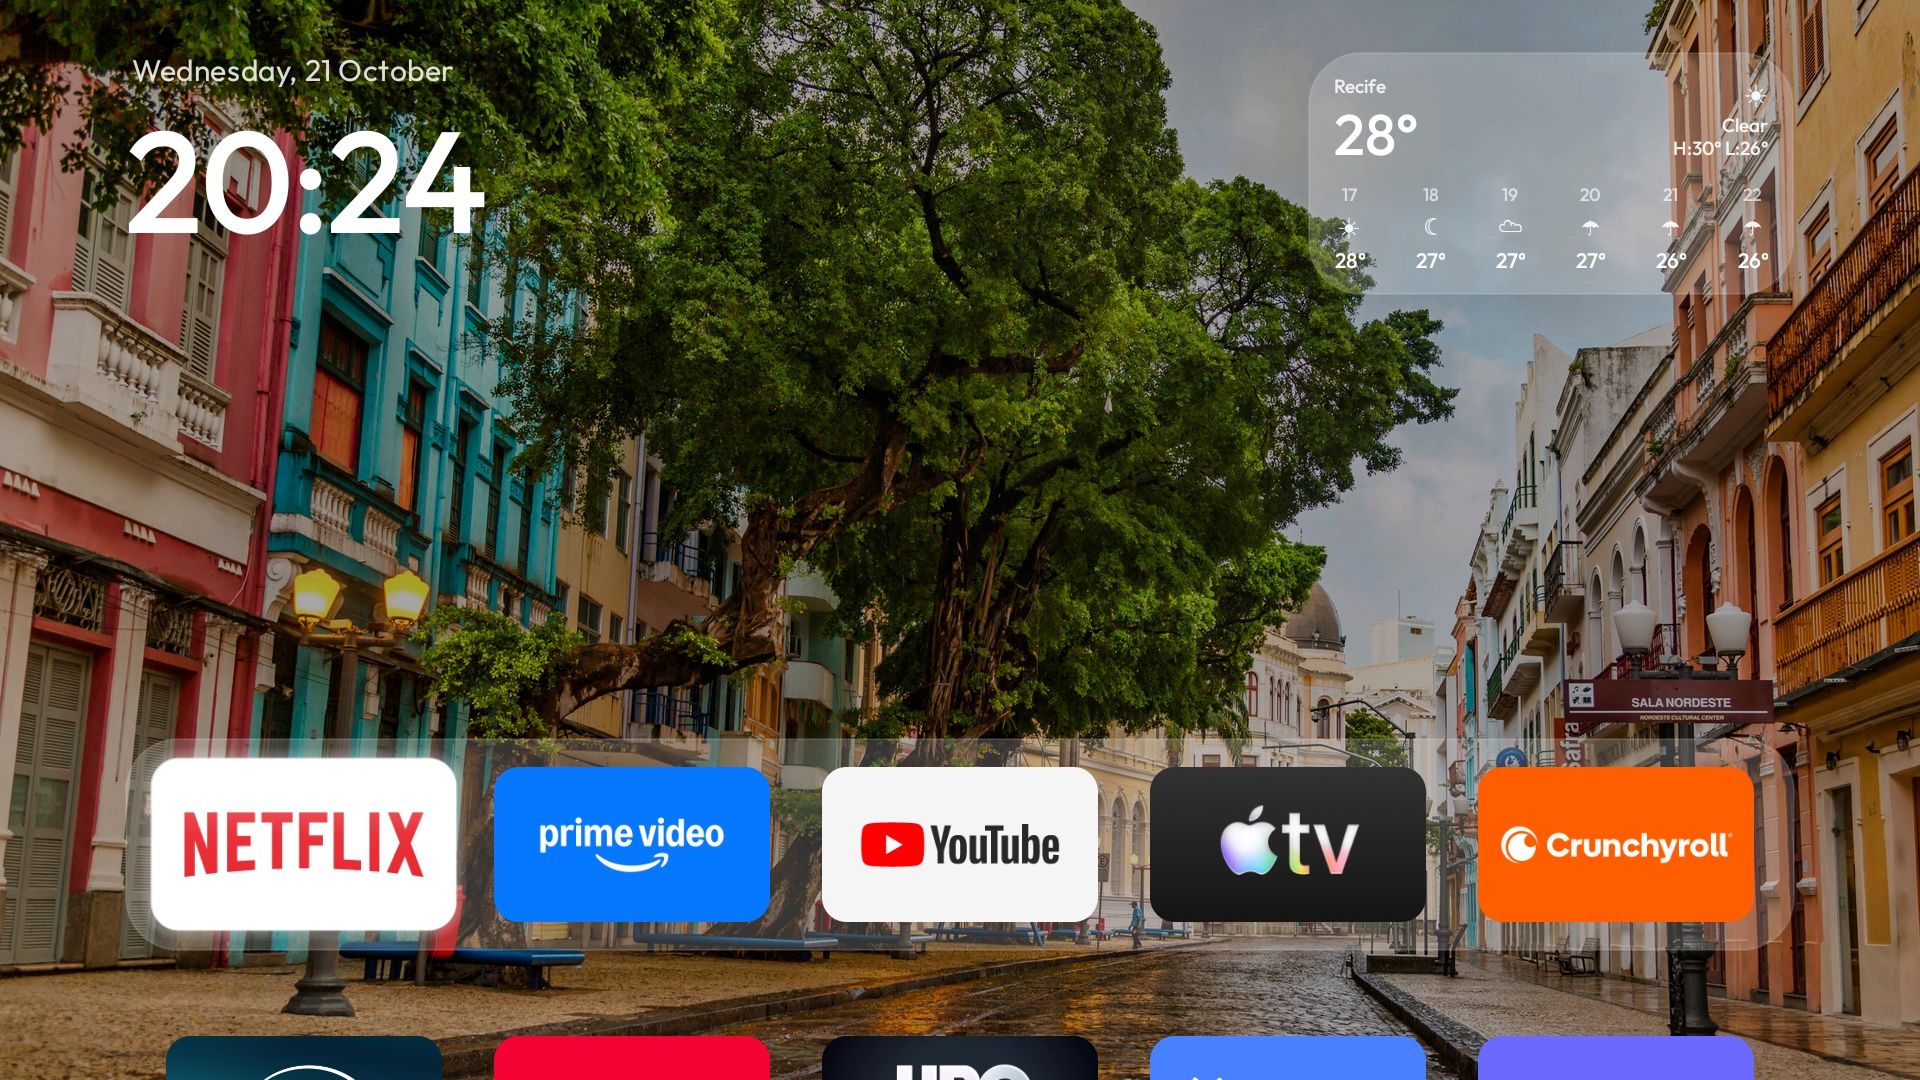
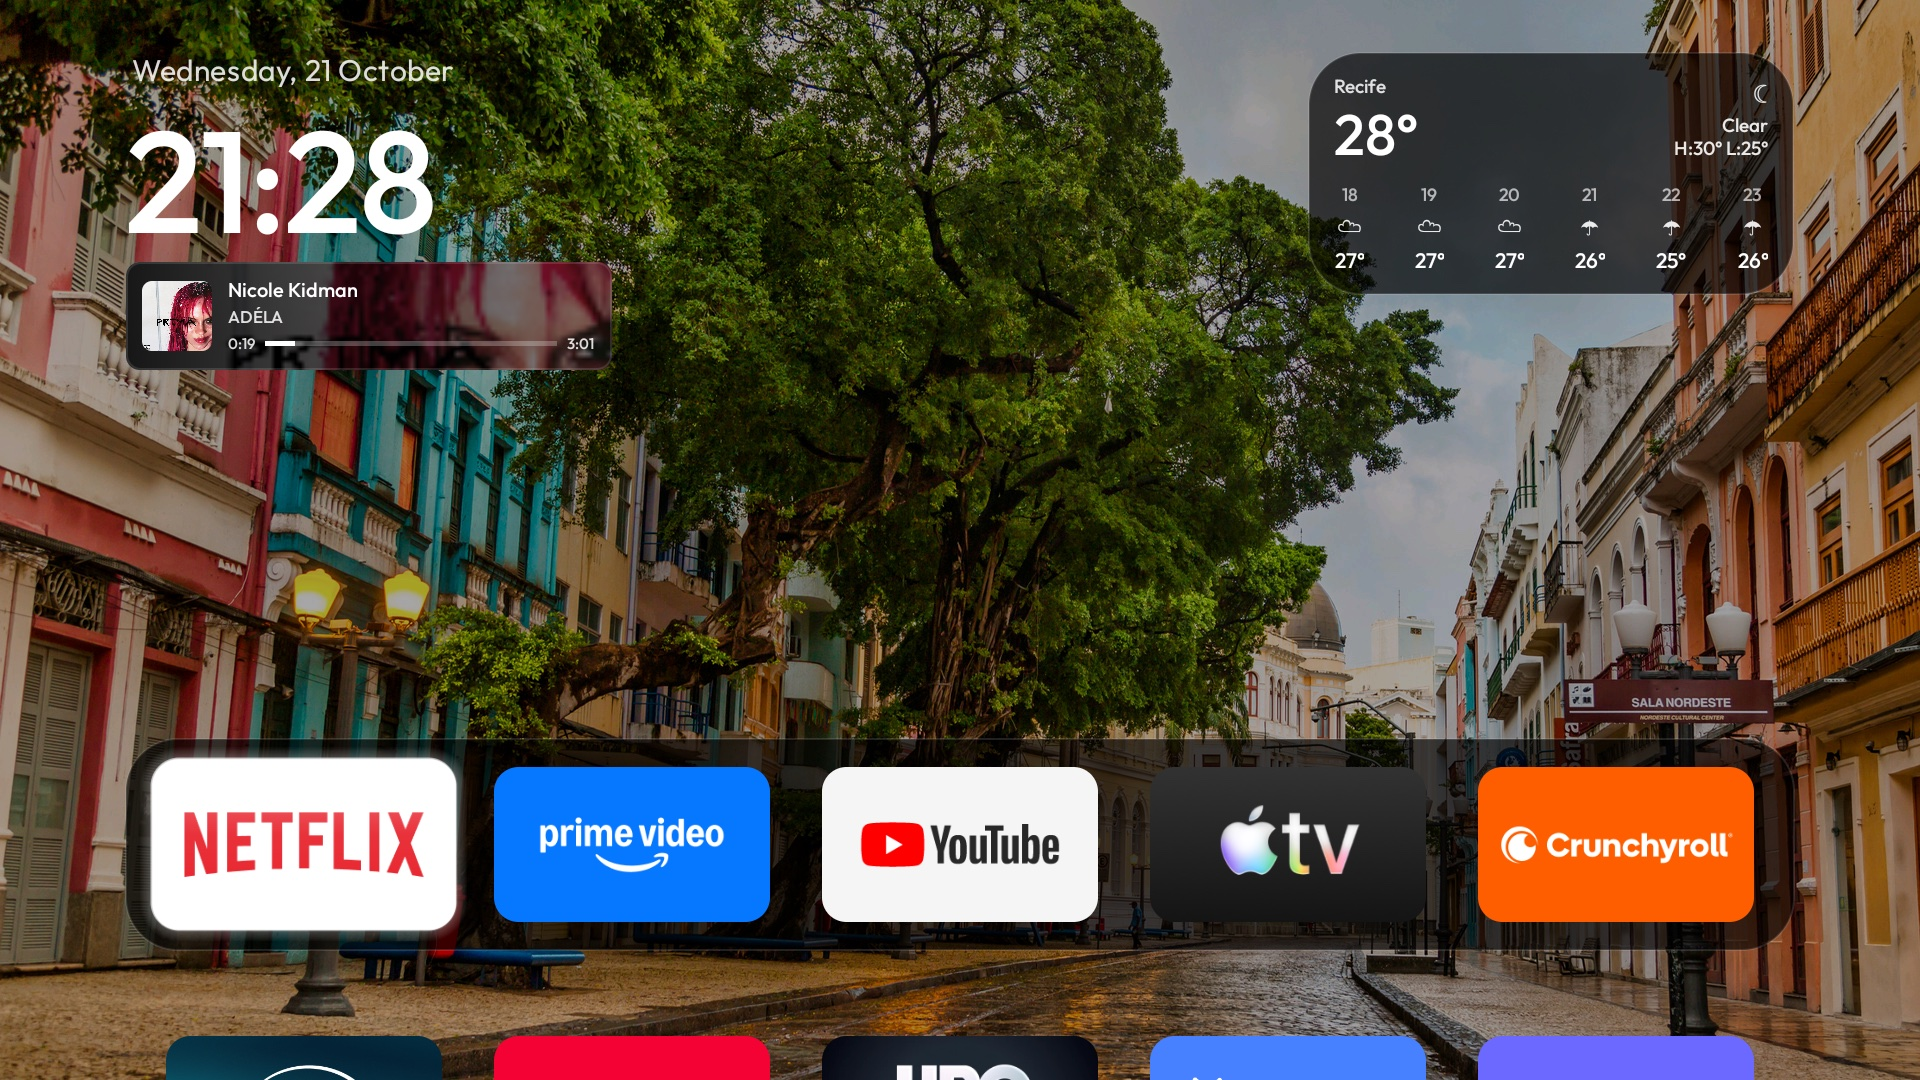
README: new home screenshot with the now playing card and dark glass

Changed region(s): [[0.0625, 0.6722, 0.9375, 0.8861], [0.6562, 0.0306, 0.9375, 0.275], [0.0625, 0.1222, 0.3438, 0.3667]]

diff --git a/README.md b/README.md
@@ -12,7 +12,7 @@ All of it is opt-in through settings, in `launcher/app/src/main/res/values/confi
 `config.json` (keys in [`themes/README.md`](themes/README.md)). The fork's theme,
 [`themes/recife`](themes/recife), turns the look on.
 
-![The home screen with the fork's recife theme: stacked clock, weather widget, translucent dock over the Rua do Bom Jesus wallpaper](docs/samissues-home.jpg)
+![The home screen with the fork's recife theme: stacked clock, the now playing card, weather widget and dark glass dock over the Rua do Bom Jesus wallpaper](docs/samissues-home.jpg)
 
 | Feature | Setting | What it does |
 |---|---|---|
